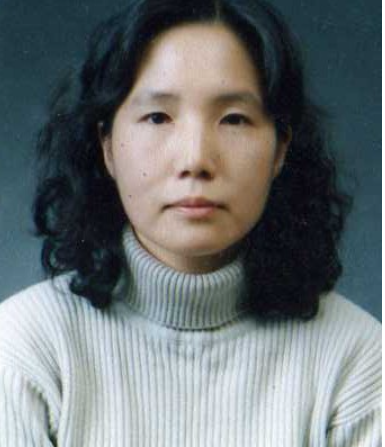
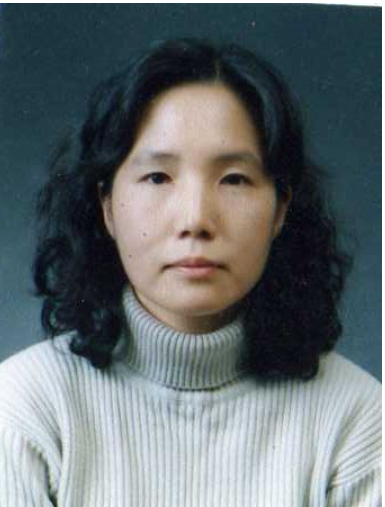
Restore original profile photo and center position

diff --git a/JS/day1/resume.html b/JS/day1/resume.html
@@ -618,5 +618,5 @@
             });
         });
     </script>
-<style>img[src="profile.png"] { object-fit: cover !important; object-position: center 80% !important; transform: scale(1.25) translateY(-25px) !important; }</style><style>[style*="profile"], img[src*="profile"], .profile-avatar, .profile-image, .profile-photo { background-position: center 80% !important; object-position: center 80% !important; transform: scale(1.25) translateY(-22px) !important; }</style></body>
+<style>img[src*="profile"] { object-fit: cover !important; object-position: center center !important; transform: scale(1.15) translateY(-10px) !important; }</style></body>
 </html>
